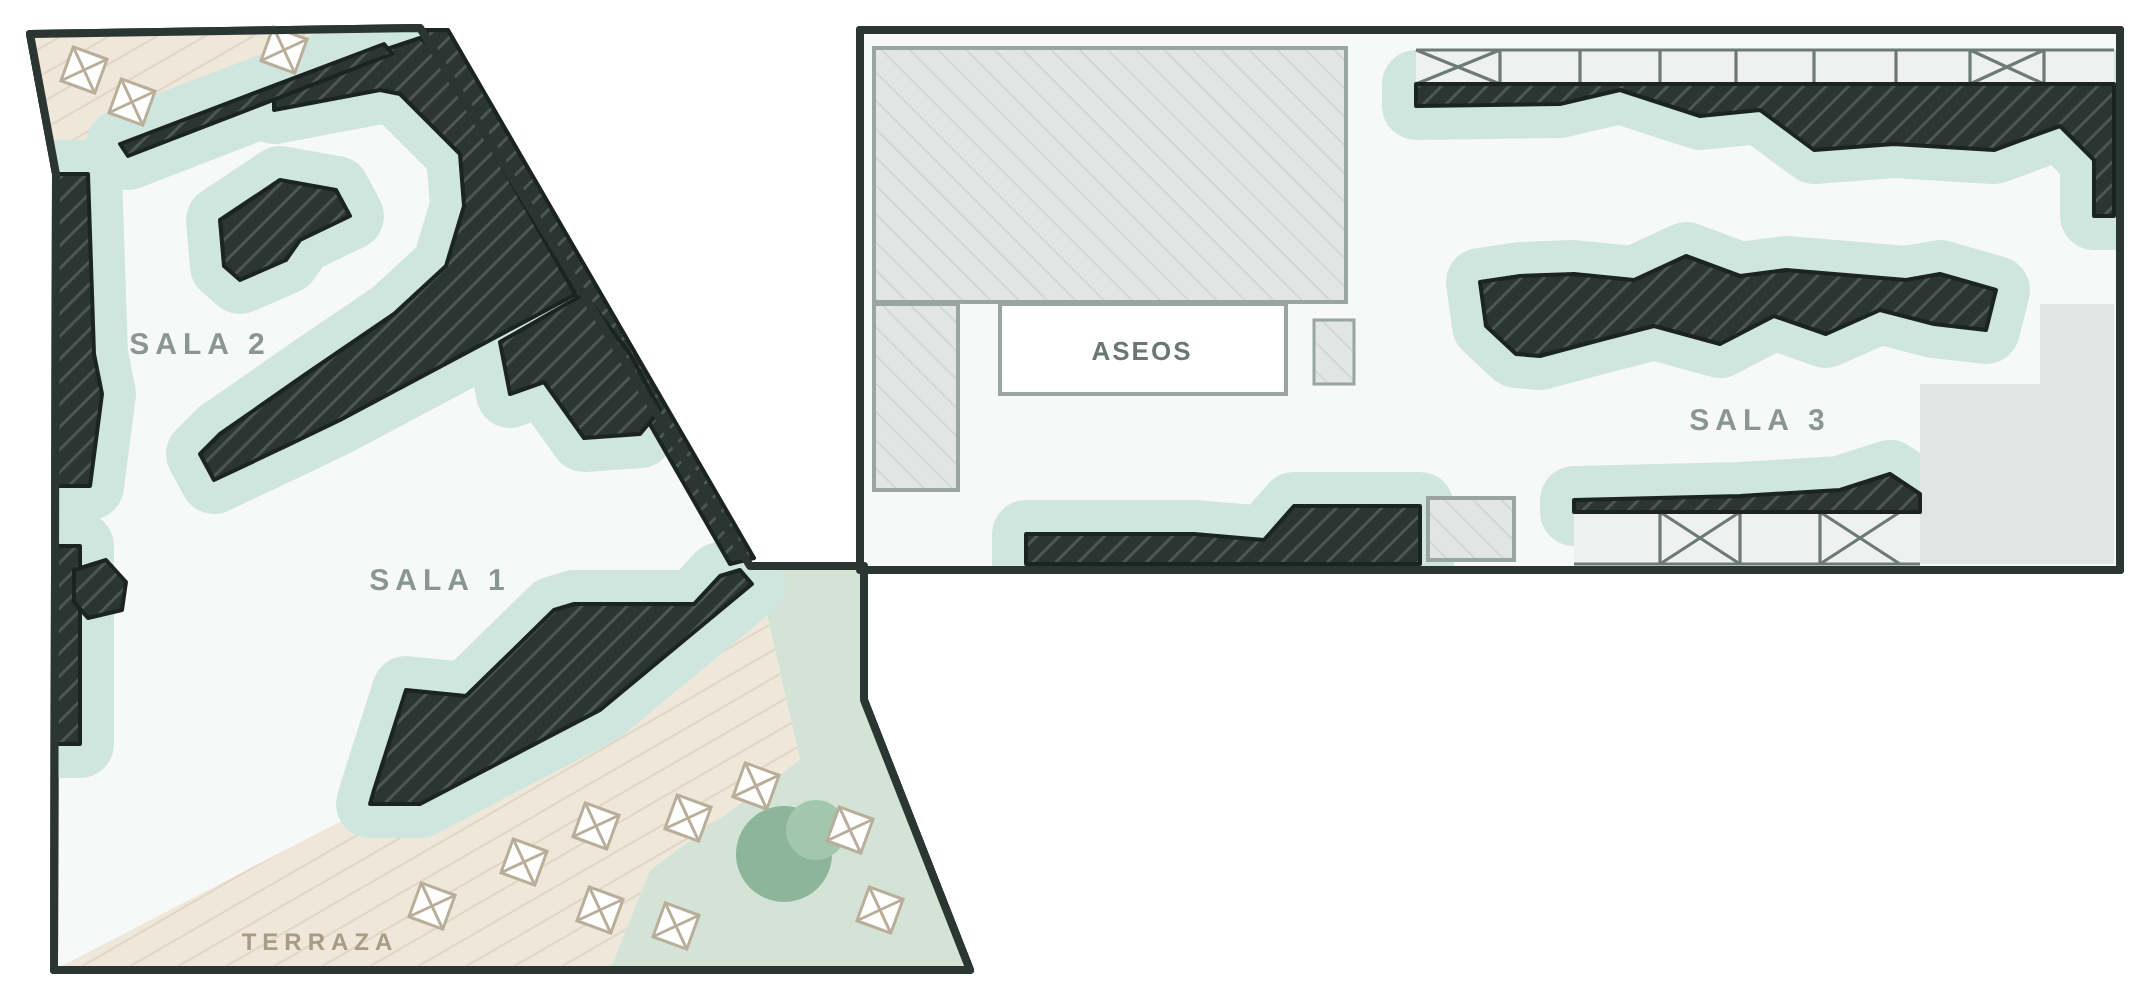
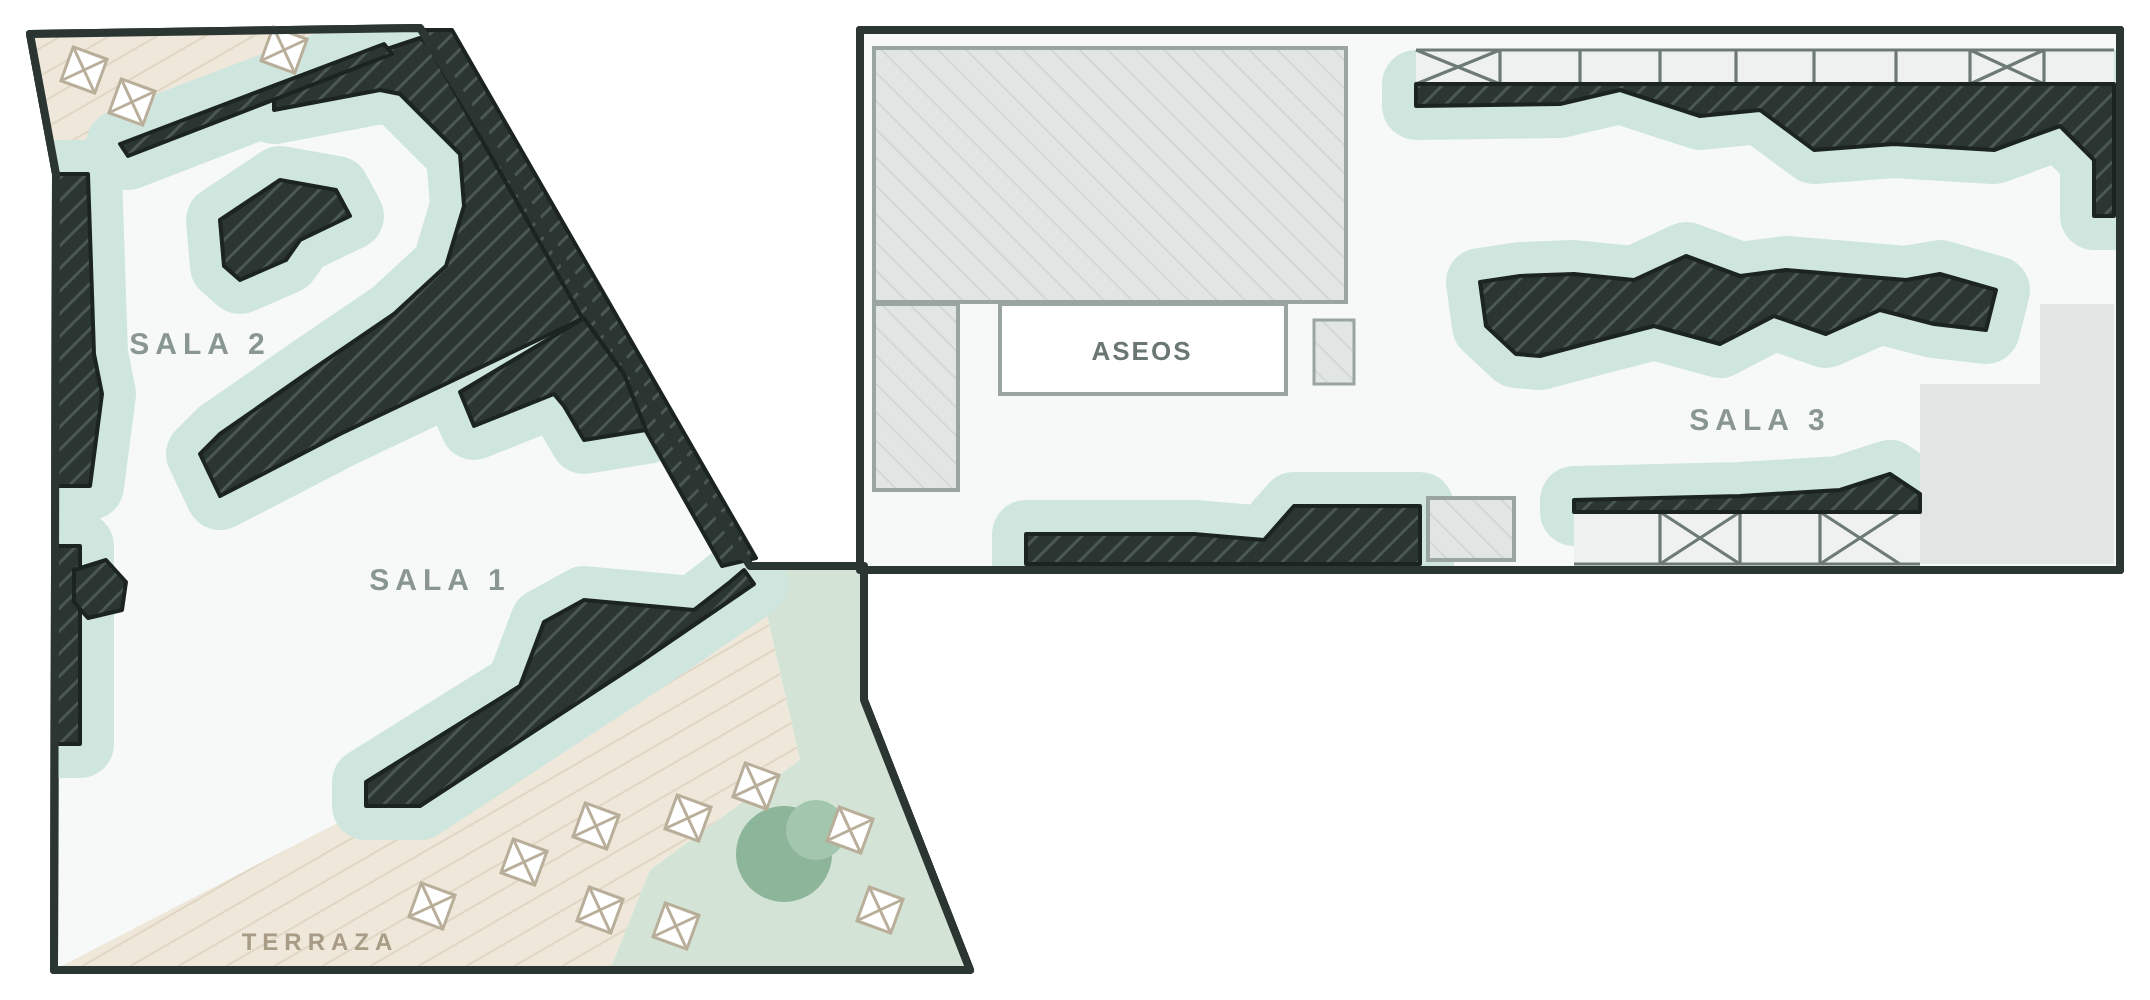
Plano: muro de la sala 1 ajustado al original
- Celosía del lado derecho unida a la banda y a la columna del borde
- Columna de bloques del borde más ancha
- Pared diagonal estrecha a la izquierda, con la celosía a la derecha
- mapas/sala-1.py: script que genera el plano, para retocarlo

Claude-Session: https://claude.ai/code/session_01DAFZYU9jXZHpUX8tGfXKMs

diff --git a/mapas/sala-1.py b/mapas/sala-1.py
@@ -1,0 +1,93 @@
+# Plano de la sala (3 salas + terrazas) calcado del original, en sus coordenadas (1204x596)
+import sys
+P = lambda pts: " ".join(f"{x},{y}" for x, y in pts)
+
+left   = [(95,102),(290,99),(455,368),(512,368),(512,435),(565,570),(107,570),(108,172)]
+right  = [(510,100),(1140,100),(1140,370),(510,370)]
+terr6  = [(95,102),(290,99),(272,110),(142,160),(108,172)]
+terr7  = [(107,570),(265,488),(452,372),(458,368),(480,465),(405,520),(385,570)]
+garden = [(458,368),(512,368),(512,435),(565,570),(385,570),(405,520),(480,465)]
+parasols = [(122,120),(146,136),(222,110),(296,538),(342,516),(380,540),(378,498),(424,494),(458,478),(418,548),(505,500),(520,540)]
+
+walls = {
+  # Sala 2: la U que rodea la isla, unida a la banda de bloques que la separa de la sala 1
+  "u": [(217,128),(272,110),(290,104),(300,112),(328,160),(365,218),(372,244),(250,302),(223,316),(190,333),(180,312),
+        (190,302),(233,272),(277,242),(303,218),(312,188),(310,162),(280,132),(270,130),(217,140)],
+  "isla": [(190,195),(220,175),(248,180),(255,193),(230,205),(223,215),(200,225),(192,218)],
+  # Panel de la terraza de arriba
+  "panel6": [(140,157),(272,107),(276,112),(144,163)],
+  # Columna de bloques a lo largo del muro exterior derecho de las salas 1 y 2
+  "borde": [(290,100),(306,100),(458,364),(441,368)],
+  # Sala 1: zigzag del lado derecho y pared diagonal hacia la terraza
+  "zig": [(310,281),(372,244),(392,272),(403,300),(372,305),(362,288),(357,282),(317,298)],
+  "diag": [(263,476),(340,428),(352,396),(372,385),(427,390),(445,376),(452,370),(457,377),(400,416),(290,488),(263,488)],
+  "izq1": [(108,172),(124,172),(127,262),(131,282),(125,328),(108,328)],
+  "izq2": [(108,358),(120,358),(120,457),(108,457)],
+  "bola": [(117,370),(133,365),(143,376),(141,390),(124,394),(117,386)],
+  # Sala 3
+  "w86": [(788,127),(1137,127),(1137,193),(1127,193),(1127,165),(1110,148),(1077,160),(1027,157),(987,160),(960,140),(930,143),(890,130),(860,137),(788,138)],
+  "isla8": [(820,226),(840,223),(867,222),(897,225),(923,213),(950,223),(973,220),(1033,225),(1050,222),(1078,230),(1073,250),(1047,247),
+            (1020,240),(993,252),(967,243),(940,257),(907,248),(880,255),(850,263),(838,262),(823,248)],
+  "abajo": [(867,335),(950,333),(1000,330),(1025,322),(1040,332),(1040,341),(867,341)],
+  "w83": [(593,352),(677,352),(712,355),(727,338),(790,338),(790,367),(593,367)],
+}
+mats = ["u","isla","zig","diag","izq1","izq2","w86","isla8","abajo","w83","panel6"]
+
+def truss(x0, x1, y0, y1, posts, crosses):
+    """Celosía vista desde arriba: marco, montantes y cruces de San Andrés"""
+    s = f'<rect x="{x0}" y="{y0}" width="{x1-x0}" height="{y1-y0}" fill="#EEF1F0"/>'
+    s += f'<path d="M{x0} {y0}H{x1}M{x0} {y1}H{x1}' + "".join(f"M{p} {y0}V{y1}" for p in posts) + "".join(f"M{a} {y0}L{b} {y1}M{b} {y0}L{a} {y1}" for a, b in crosses) + '" fill="none" stroke="#6E7A76" stroke-width="1.6"/>'
+    return s
+
+svg = f'''<svg xmlns="http://www.w3.org/2000/svg" viewBox="80 85 1075 500" width="2150" height="1000">
+<defs>
+  <pattern id="hatch" width="8" height="8" patternUnits="userSpaceOnUse" patternTransform="rotate(45)">
+    <rect width="8" height="8" fill="#2B3532"/><line x1="0" y1="0" x2="0" y2="8" stroke="#4A5753" stroke-width="3"/>
+  </pattern>
+  <pattern id="rooms" width="10" height="10" patternUnits="userSpaceOnUse" patternTransform="rotate(-45)">
+    <rect width="10" height="10" fill="#E1E5E3"/><line x1="0" y1="0" x2="0" y2="10" stroke="#D3D8D6" stroke-width="2"/>
+  </pattern>
+  <pattern id="deck" width="12" height="12" patternUnits="userSpaceOnUse" patternTransform="rotate(-30)">
+    <rect width="12" height="12" fill="#EEE7DA"/><line x1="0" y1="0" x2="12" y2="0" stroke="#E0D6C4" stroke-width="2"/>
+  </pattern>
+  <clipPath id="inside"><polygon points="{P(left)}"/><polygon points="{P(right)}"/></clipPath>
+</defs>
+<g stroke="#2B3532" stroke-width="4" stroke-linejoin="round">
+  <polygon points="{P(left)}" fill="#F7F9F8"/>
+  <polygon points="{P(right)}" fill="#F7F9F8"/>
+</g>
+<polygon points="{P(terr6)}" fill="url(#deck)"/>
+<polygon points="{P(terr7)}" fill="url(#deck)"/>
+<polygon points="{P(garden)}" fill="#D3E3D6"/>
+<circle cx="472" cy="512" r="24" fill="#8DB59A"/><circle cx="488" cy="500" r="15" fill="#A3C6AE"/>
+<g clip-path="url(#inside)" fill="#CFE6DE" stroke="#CFE6DE" stroke-width="34" stroke-linejoin="round">
+  {"".join(f'<polygon points="{P(walls[k])}"/>' for k in mats)}
+</g>
+<g fill="#FFFFFF" stroke="#B9AE99" stroke-width="1.5">
+  {"".join(f'<g transform="translate({x},{y}) rotate(20)"><rect x="-9" y="-9" width="18" height="18"/><path d="M-9-9L9 9M9-9L-9 9" fill="none"/></g>' for x, y in parasols)}
+</g>
+<g>
+  <rect x="517" y="109" width="236" height="127" fill="url(#rooms)" stroke="#9AA5A1" stroke-width="2"/>
+  <rect x="517" y="237" width="42" height="93" fill="url(#rooms)" stroke="#9AA5A1" stroke-width="2"/>
+  <rect x="580" y="237" width="143" height="45" fill="#FFFFFF" stroke="#9AA5A1" stroke-width="2"/>
+  <rect x="737" y="245" width="20" height="32" fill="url(#rooms)" stroke="#9AA5A1" stroke-width="1.5"/>
+  <rect x="794" y="334" width="43" height="31" fill="url(#rooms)" stroke="#9AA5A1" stroke-width="2"/>
+  <polygon points="1100,237 1137,237 1137,367 1040,367 1040,277 1100,277" fill="#E1E5E3"/>
+  <text x="651" y="265" font-family="Helvetica, Arial, sans-serif" font-size="13" font-weight="700" fill="#6B7773" text-anchor="middle" letter-spacing="1">ASEOS</text>
+</g>
+{truss(788, 1137, 110, 127, [830,870,910,948,987,1028,1065,1102], [(788,830),(1065,1102)])}
+{truss(867, 1040, 341, 367, [910,950,990], [(910,950),(990,1030)])}
+<g fill="url(#hatch)" stroke="#1C2421" stroke-width="2" stroke-linejoin="round">
+  {"".join(f'<polygon points="{P(v)}"/>' for v in walls.values())}
+</g>
+<g font-family="Helvetica, Arial, sans-serif" font-size="15" font-weight="800" fill="#8A9692" letter-spacing="3" text-anchor="middle">
+  <text x="180" y="262">SALA 2</text>
+  <text x="300" y="380">SALA 1</text>
+  <text x="960" y="300">SALA 3</text>
+  <text x="240" y="560" font-size="12" fill="#A89C86">TERRAZA</text>
+</g>
+<g stroke="#2B3532" stroke-width="4" fill="none" stroke-linejoin="round">
+  <polygon points="{P(left)}"/><polygon points="{P(right)}"/>
+</g>
+</svg>'''
+open(sys.argv[1], "w").write(svg)
